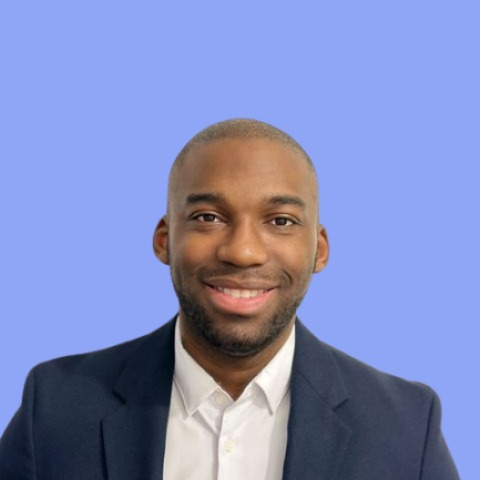
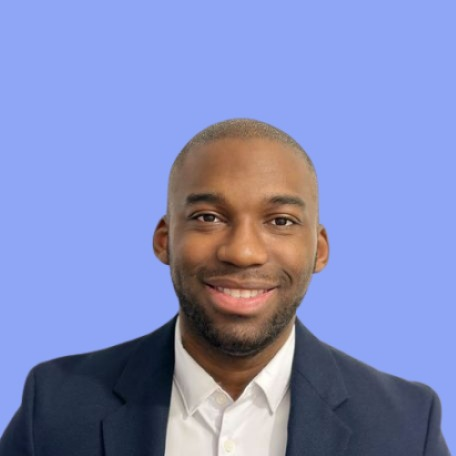
Fix vertical label reading direction and update profile photo
Claude-Session: https://claude.ai/code/session_015i6qxpSAzXgsRnJ1y6AUN4

diff --git a/index.html b/index.html
@@ -211,13 +211,12 @@ box-shadow: 0 15px 35px rgba(0, 0, 0, 0.4);
 }
 .about-label {
 writing-mode: vertical-rl;
-transform: rotate(180deg);
 font-weight: 800;
 letter-spacing: 2px;
 font-size: 14px;
 color: #e5e7eb;
-padding-right: 16px;
-border-right: 1px solid rgba(255, 255, 255, 0.15);
+padding-left: 16px;
+border-left: 1px solid rgba(255, 255, 255, 0.15);
 height: 260px;
 display: flex;
 align-items: center;
